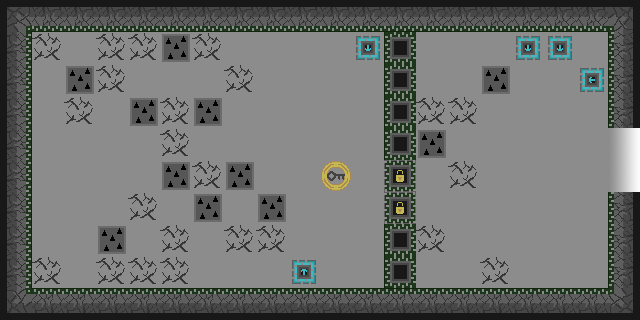
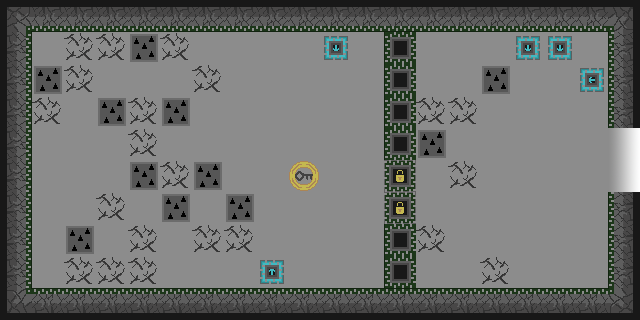
edited floor 7 to avoid weird collision with doors

diff --git a/src/scenes/Play.js b/src/scenes/Play.js
@@ -286,8 +286,8 @@ class Play extends Phaser.Scene {
         }
         if (floor === 7) {
             this.goal = 1;
-            this.player = this.physics.add.sprite(32*4, 32*4, 'player').play('sideIdle');
-            this.block1 = this.physics.add.sprite(32*2, 32*4, 'block_a').play({key: 'glow_a', startFrame: 0});
+            this.player = this.physics.add.sprite(32*3, 32*4, 'player').play('sideIdle');
+            this.block1 = this.physics.add.sprite(32*1, 32*4, 'block_a').play({key: 'glow_a', startFrame: 0});
             this.block2 = this.physics.add.sprite(32*2, 32*5, 'block_a').play({key: 'glow_a', startFrame: 0});
             this.block3 = this.physics.add.sprite(32*14, 32*1, 'block_a').play({key: 'glow_a', startFrame: 0});
         }
